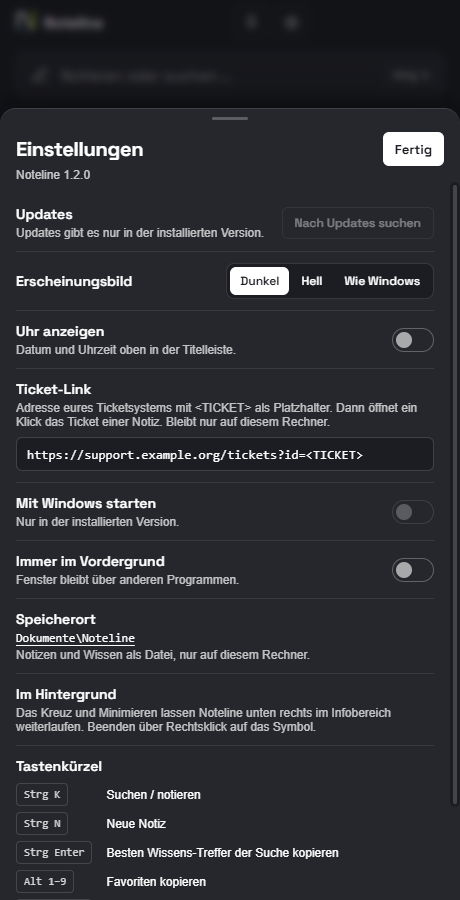
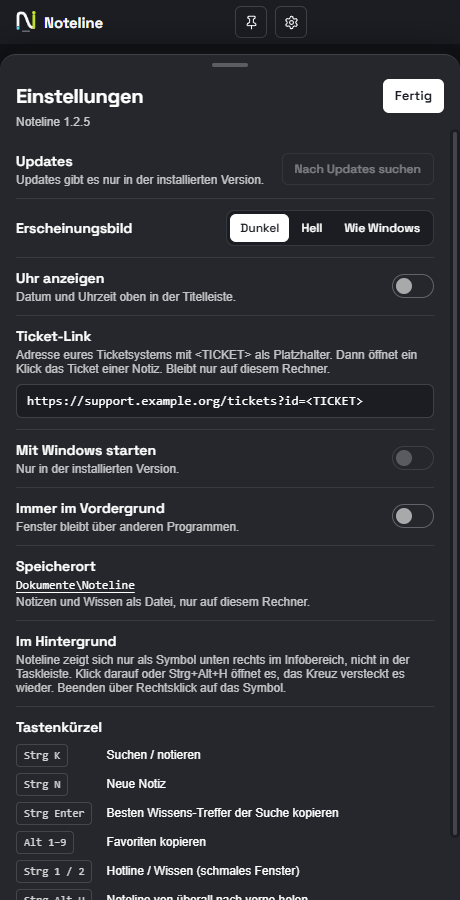
docs: Changelog und Screenshot für 1.2.5

diff --git a/CHANGELOG.md b/CHANGELOG.md
@@ -3,6 +3,15 @@
 Alle nennenswerten Änderungen an Noteline. Format nach [Keep a Changelog](https://keepachangelog.com/de/1.1.0/),
 Versionierung nach [Semantic Versioning](https://semver.org/lang/de/).
 
+## [1.2.5] – 2026-11-06
+
+### Behoben
+- **Titelleiste verschwand in niedrigen Fenstern:** Beim Öffnen der Einstellungen (oder einer Notiz im schmalen Fenster)
+  ist die ganze Ansicht nach oben gerutscht, Logo, Pin und Zahnrad waren danach nicht mehr zu sehen. Die Ansicht bleibt
+  jetzt immer an ihrem Platz.
+- Einstellungen und Notiz-Blatt beginnen unter der Titelleiste. „Fertig“ liegt nicht mehr unter den Windows-Fensterknöpfen,
+  das Fenster lässt sich auch bei offenen Einstellungen verschieben, und das Zahnrad schließt sie wieder.
+
 ## [1.2.4] – 2026-11-06
 
 ### Behoben
@@ -125,6 +134,7 @@ Erste veröffentlichte Version. Neuaufbau des Prototyps „Hotline-Notizen“ na
 - Eine ins Fenster gezogene Datei ersetzt nicht mehr die App-Oberfläche.
 - Strengere Sicherheitseinstellungen (Sandbox, Content-Security-Policy ohne Inline-Skripte).
 
+[1.2.5]: https://github.com/pascatotalx/noteline/releases/tag/v1.2.5
 [1.2.4]: https://github.com/pascatotalx/noteline/releases/tag/v1.2.4
 [1.2.3]: https://github.com/pascatotalx/noteline/releases/tag/v1.2.3
 [1.2.2]: https://github.com/pascatotalx/noteline/releases/tag/v1.2.2
